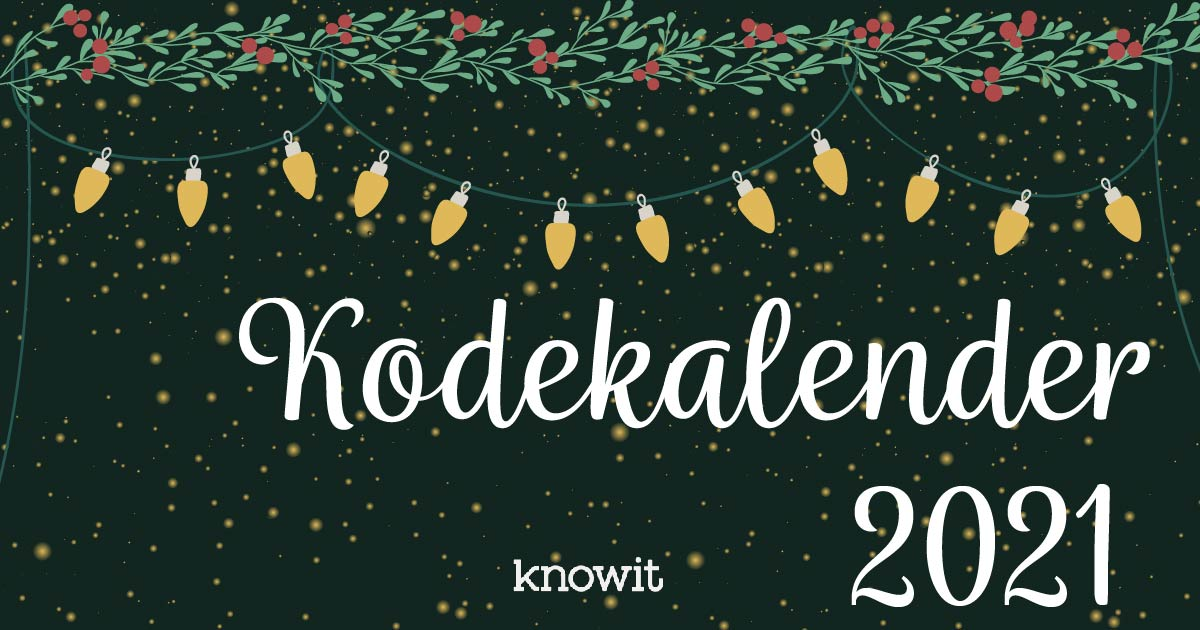
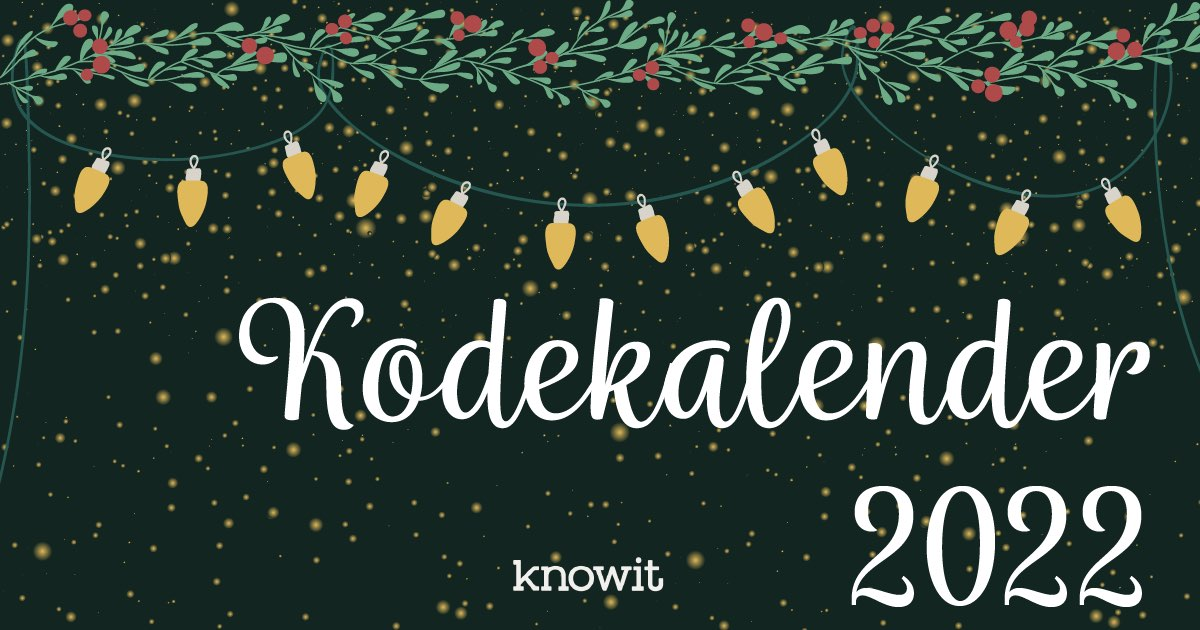
Fixes OG preview and text for 2022

Changed region(s): [[0.8942, 0.754, 0.9558, 0.9651], [0.4317, 0.9048, 0.555, 0.9349]]

diff --git a/index.html b/index.html
@@ -30,19 +30,19 @@
   <meta name="theme-color" content="rgb(18, 38, 32)" />
   <meta property="og:url" content="https://julekalender.knowit.no">
   <meta property="og:type" content="website">
-  <meta property="og:title" content="Kodekalender 2021">
-  <meta property="og:description" content="Kodekalender 2021 fra Knowit">
-  <meta property="og:image" content="https://julekalender.knowit.no/og_2021.jpg">
+  <meta property="og:title" content="Kodekalender 2022">
+  <meta property="og:description" content="Kodekalender 2022 fra Knowit">
+  <meta property="og:image" content="https://julekalender.knowit.no/og.jpg">
 
   <meta name="twitter:card" content="summary_large_image">
   <meta property="twitter:domain" content="julekalender.knowit.no">
   <meta property="twitter:url" content="https://julekalender.knowit.no">
-  <meta name="twitter:title" content="Kodekalender 2021">
-  <meta name="twitter:description" content="Kodekalender 2021 fra Knowit">
-  <meta name="twitter:image" content="https://julekalender.knowit.no/og_2021.jpg">
+  <meta name="twitter:title" content="Kodekalender 2022">
+  <meta name="twitter:description" content="Kodekalender 2022 fra Knowit">
+  <meta name="twitter:image" content="https://julekalender.knowit.no/og.jpg">
 
-  <meta name="description" content="Kodekalender 2021 fra Knowit" />
-  <title>Knowit kodekalender 2021</title>
+  <meta name="description" content="Kodekalender 2022 fra Knowit" />
+  <title>Knowit kodekalender 2022</title>
 </head>
 
 <body>

diff --git a/src/pages/Gdpr.tsx b/src/pages/Gdpr.tsx
@@ -56,7 +56,7 @@ const Gdpr = () => {
 
   return (
     <Page className="py-12 px-8 md:px-12 mx-4 md:mx-8 bg-gray-100 text-gray-700 rounded-md">
-      <h1 className="text-4xl text-center font-semibold">Personvernerklæring for Kodekalenderen 2021</h1>
+      <h1 className="text-4xl text-center font-semibold">Personvernerklæring for Kodekalenderen 2022</h1>
       <h2 className="mt-8 font-medium">
         <em>TL;DR</em>
       </h2>
